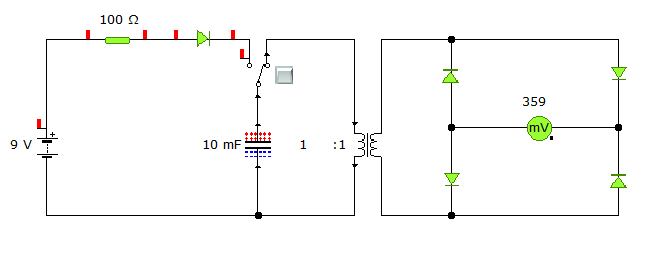
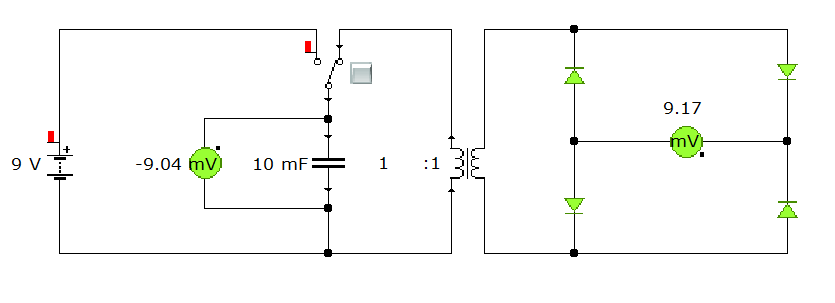
update

diff --git a/docs/physik/swing.md b/docs/physik/swing.md
@@ -50,3 +50,6 @@ negative Stromfluss sperren.
 Misst man nun die Spannung am Ausgang der Gleichrichterschaltung ergibt sich folgender Graph:
 
 ![img.png](/docs/img/gleichrichterMessung.png)
+
+Hier zeigt sich nun, dass mit der gleichen Frequenz wie am Primärstromkreis des Transformators nun
+immer nur eine positive Spannung am Sekundärstromkreis anliegt.
